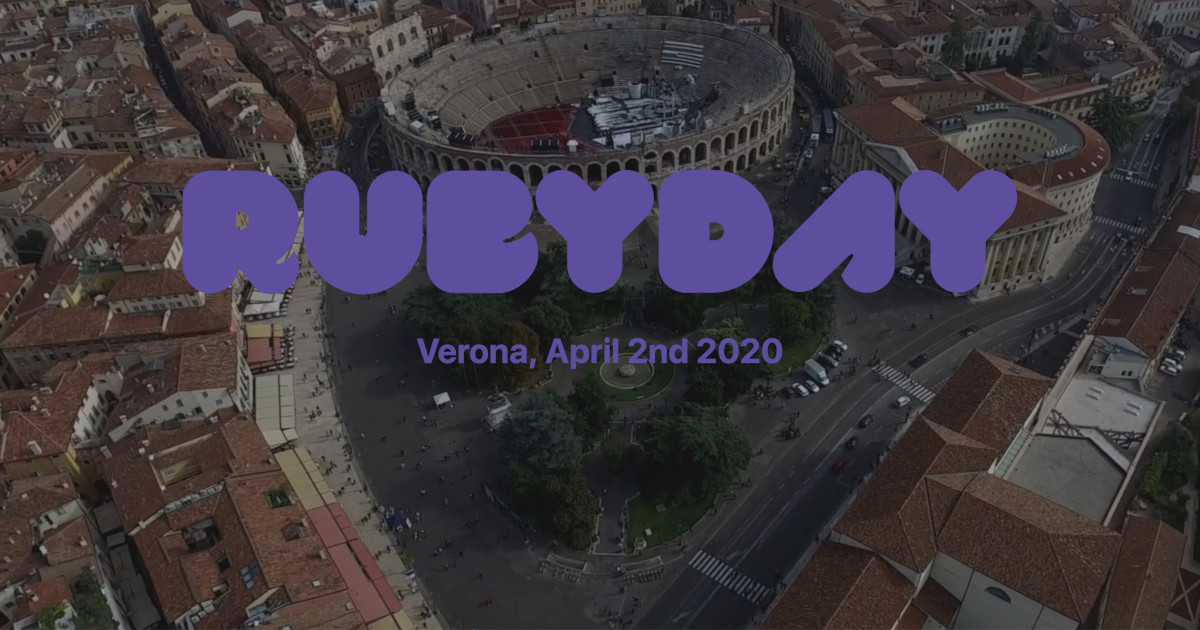
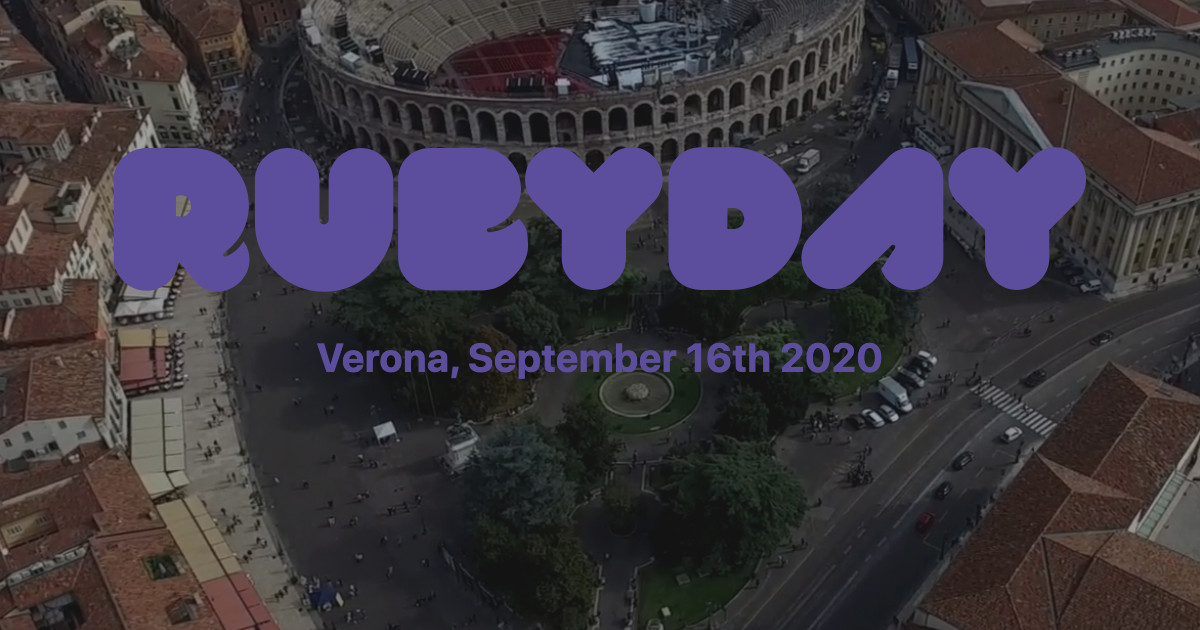
Publish new date

diff --git a/schedule.html b/schedule.html
@@ -4,7 +4,7 @@ title: Schedule
 
 <div class="limit limit--top-margin">
 
-  {% include schedule/intro.html date='TBD' %}
+  {% include schedule/intro.html date='September 16th' %}
 
   <div class="schedule" data-dates="1-25,5-12,1-24">
     <table class="schedule__table">
